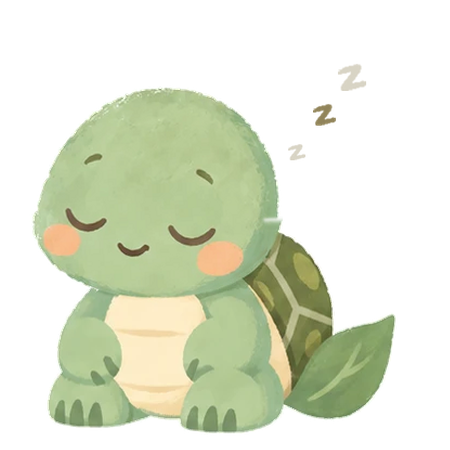
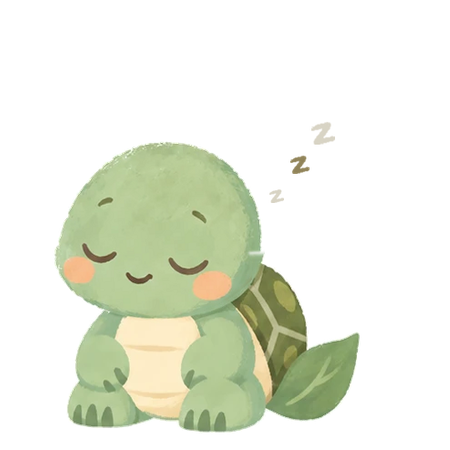
art(turtle): match sleep head size to stay and walk
- Scale sleep by full head width; heads now 205/205/207 px.

Changed region(s): [[0.0622, 0.1867, 0.9022, 0.9644], [0.7467, 0.1244, 0.8089, 0.2178]]

diff --git a/design/pet_sketches/turtle_pond_buddy/sleep_trial/animate_sleep.py b/design/pet_sketches/turtle_pond_buddy/sleep_trial/animate_sleep.py
@@ -15,7 +15,7 @@ from PIL import Image
 sys.path.insert(0, 'walk_trial')
 sys.path.insert(0, 'export')
 from split_sheet import colours, colour_luts, apply_luts  # noqa: E402
-from export_frames import cut_out, bbox, head_width, head_centre_x, BASE_Y  # noqa: E402
+from export_frames import cut_out, bbox, head_centre_x, BASE_Y  # noqa: E402
 
 FRAMES, MS = 16, 160                 # 2560 ms loop
 NOD_DROP, NOD_TILT = 9, 4.0          # cell px / degrees at the deepest point of the nod
@@ -99,7 +99,14 @@ def frame(i):
 def main():
     # same character size and placement as the exported stay frames
     stay = [Image.open(f'export/stay/turtle_stay-{i:02d}.png') for i in range(1, 10)]
-    scale = np.median([head_width(f) for f in stay]) / head_width(head_img)
+    # compare full head widths: widest row in the stay head band (top 40%, above the shell)
+    # against the widest row of the isolated sleep head layer
+    def widest(img, frac=1.0):
+        a = np.asarray(img)[..., 3] > 128
+        ys = np.nonzero(a.any(1))[0]
+        rows = a[ys.min(): ys.min() + int(frac * (ys.max() - ys.min())) + 1]
+        return max(np.ptp(np.nonzero(r)[0]) for r in rows if r.any())
+    scale = np.median([widest(f, 0.4) for f in stay]) / widest(head_img)
     target_head_x = np.mean([head_centre_x(f) for f in stay])
     ground = bbox(body_img)[3]
     hx = head_centre_x(head_img)

diff --git a/design/pet_sketches/turtle_pond_buddy/sleep_trial/README.md b/design/pet_sketches/turtle_pond_buddy/sleep_trial/README.md
@@ -22,8 +22,12 @@ redrawn, so detail and colour do not change between frames:
   the top of the script.
 
 Running `python3 sleep_trial/animate_sleep.py` writes
-`export/sleep/turtle_sleep-01..16.png`. These are 450 × 450 RGBA, at the stay
-frames' head width and head position, with feet on y=432. It also writes
+`export/sleep/turtle_sleep-01..16.png`. These are 450 × 450 RGBA, with feet on
+y=432 and the head at the stay frames' position. Scaling compares full head
+widths: the widest row of the stay head band (the top 40%, above the shell)
+against the widest row of the isolated sleep head. Measured heads after export:
+stay 205 px, walk 205 px, sleep 207 px. The first export used a top-30% band
+of the sleep head, which missed its widest row and drew the head about 20% too large. It also writes
 `export/review/sleep_{light,dark}.gif`.
 
 ## Review
